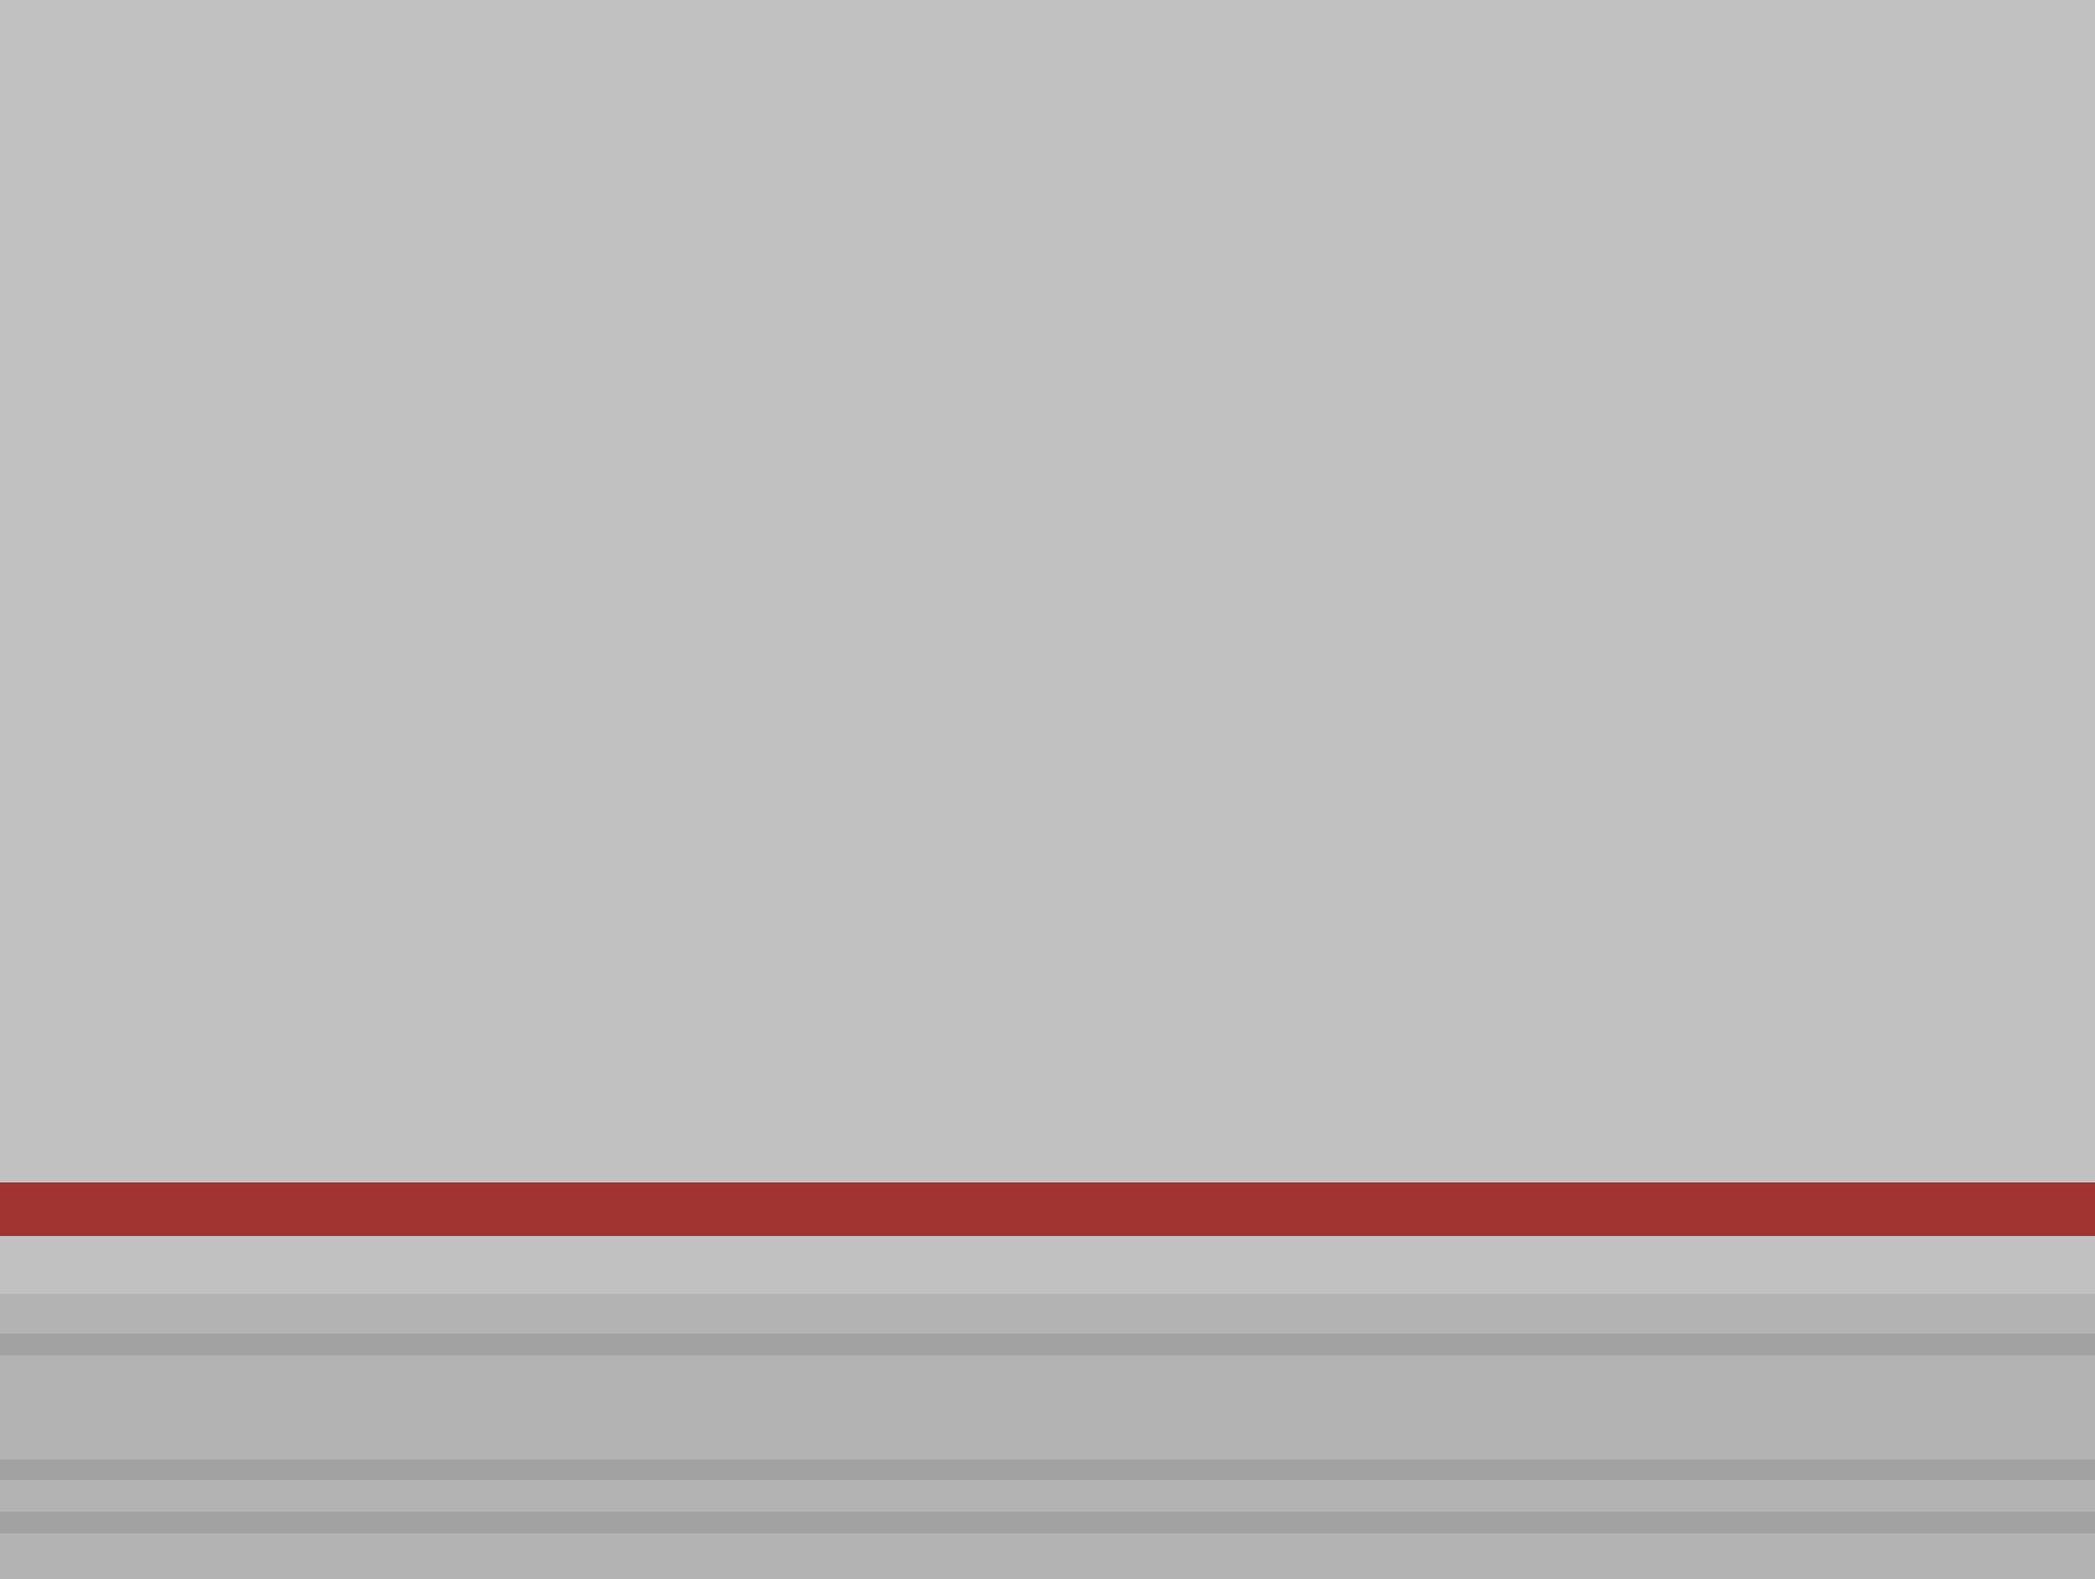
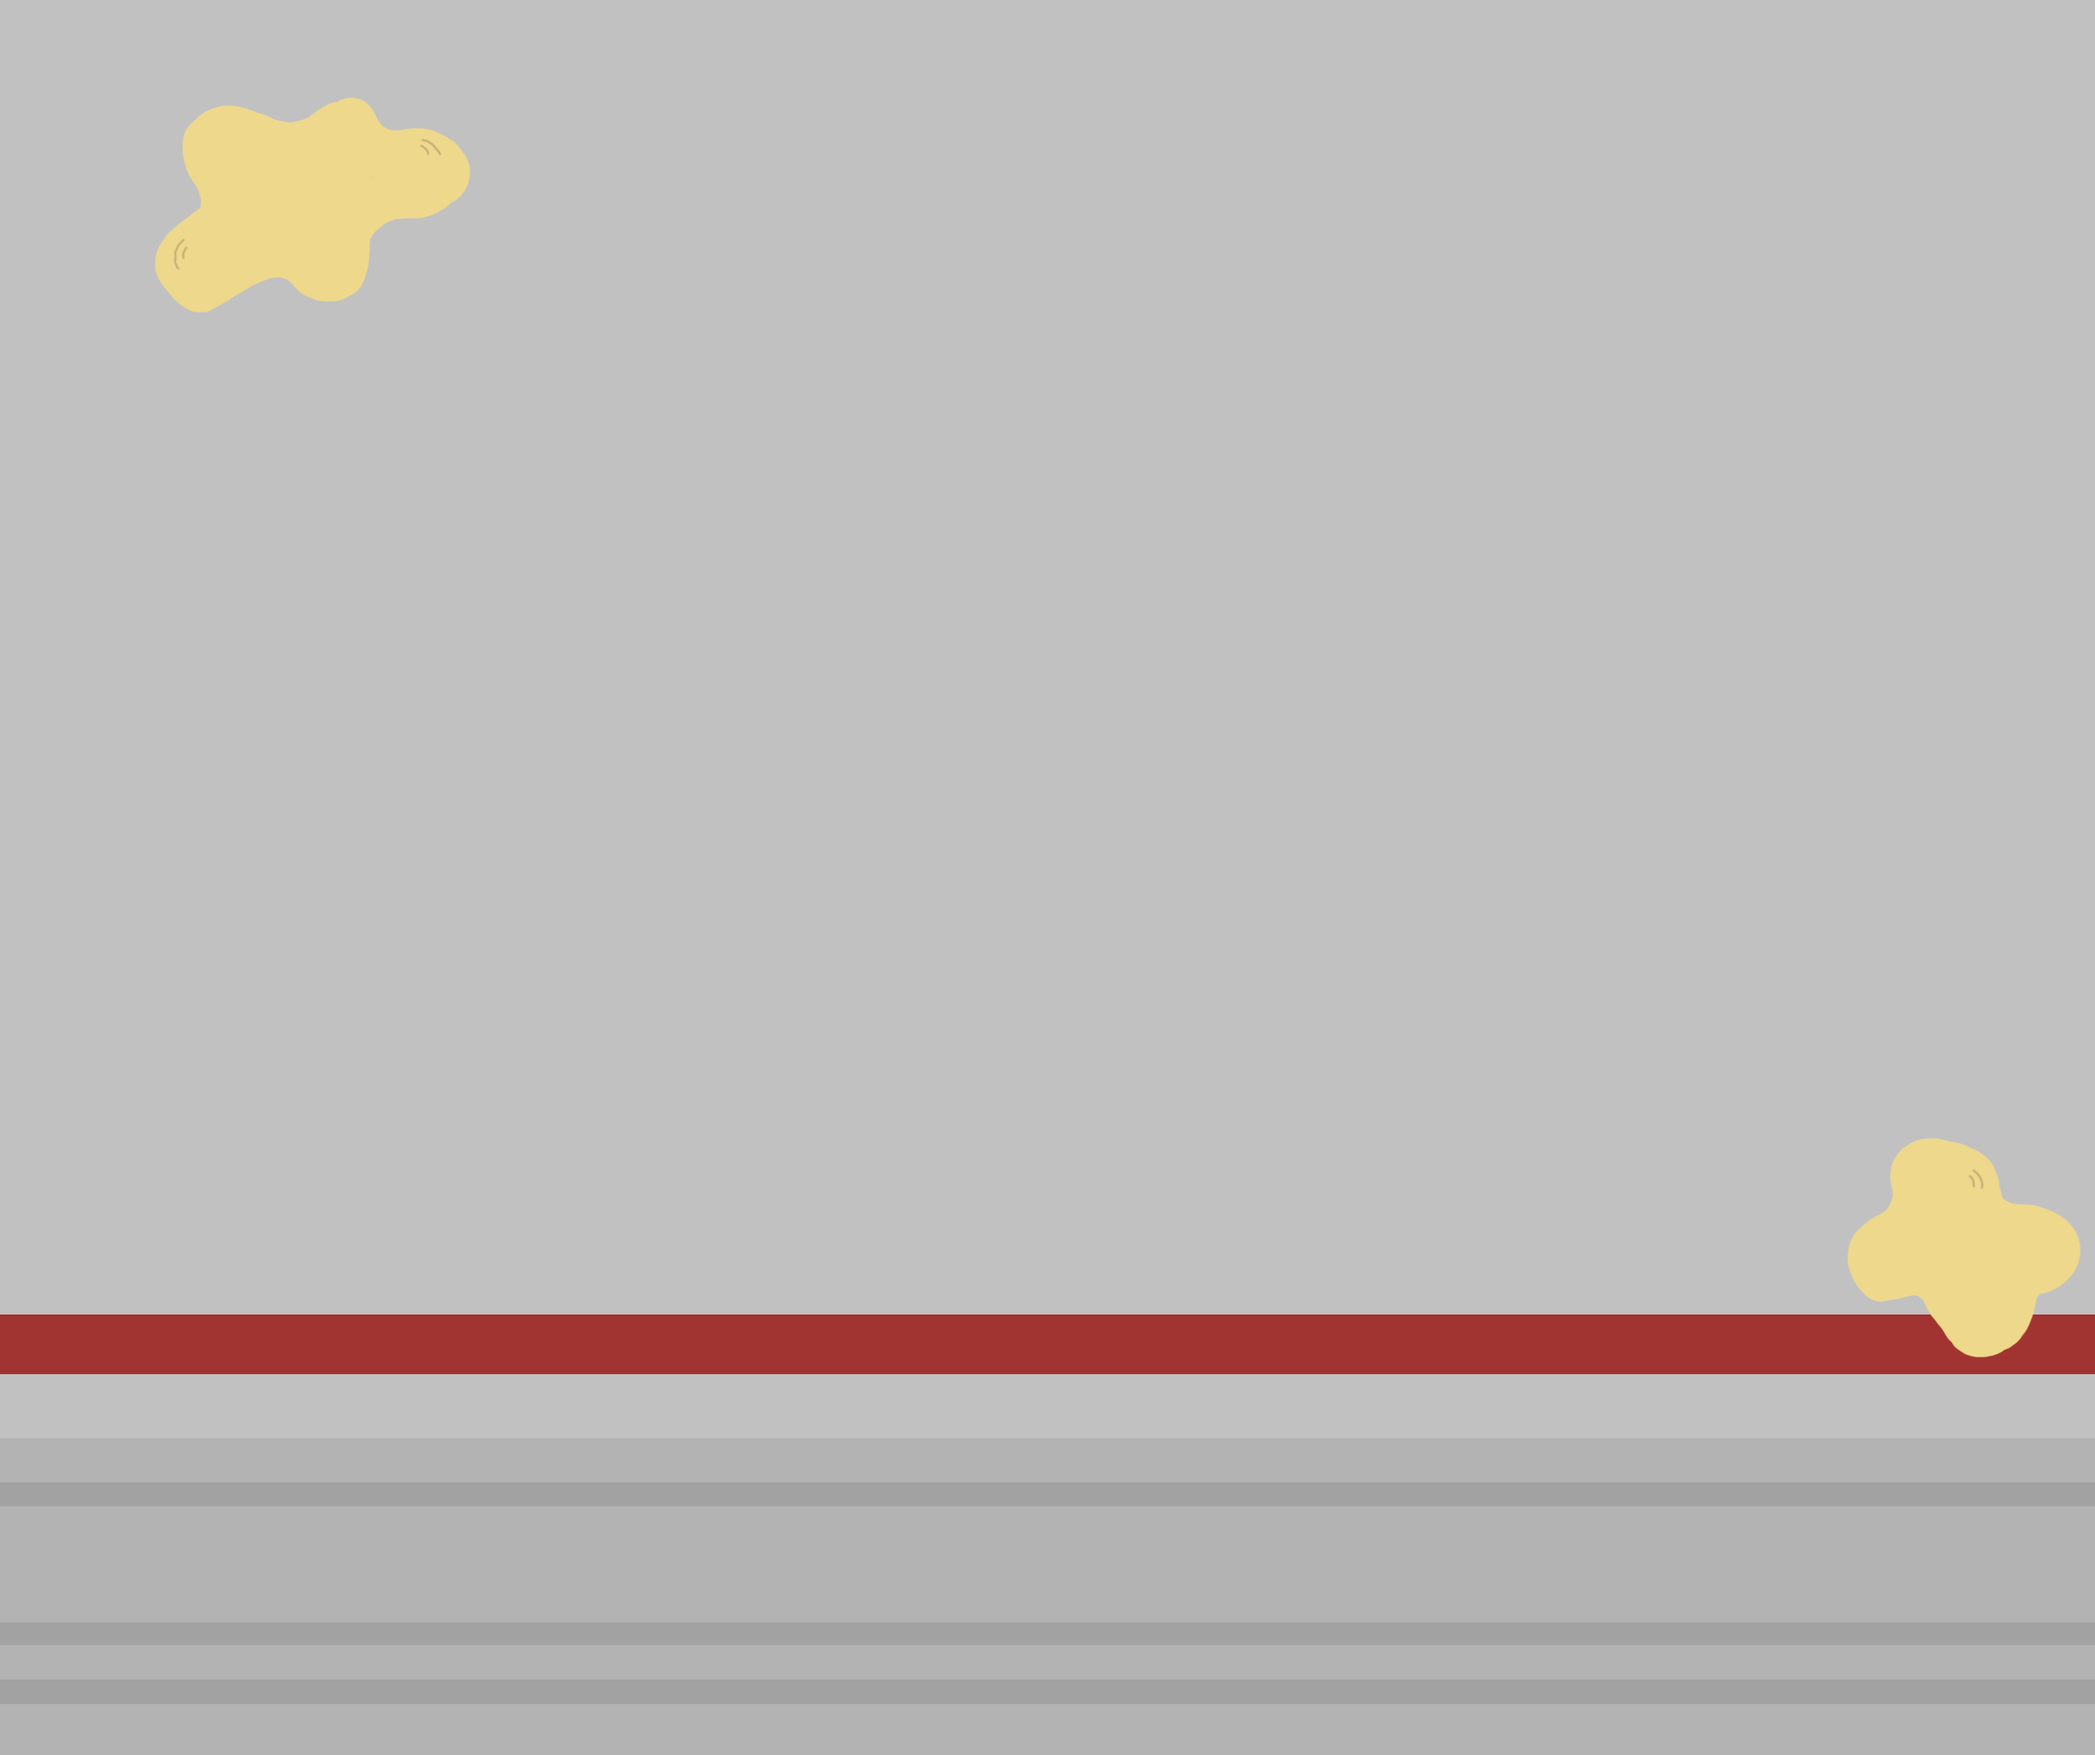
fondo y turistas

Changed region(s): [[0.062, 0.0311, 0.2479, 0.1867], [0.8677, 0.6533, 0.9916, 0.7778]]

diff --git a/tourist.js b/tourist.js
@@ -2,11 +2,11 @@ class Tourist {
   //Creamos un array donde vayan apareciendo los turistas
 
   static touristsArray = [];
-  static touristClasses =["touristOne", "touristTwo", "touristThree"];
+  static touristClasses =["touristOne", "touristTwo", "touristThree", "touristFour","touristFive"];
   constructor() {
     //Definimos en pantalla y su posición aleatoria
     this.element = document.createElement("div");
-    this.element.classList.add(Tourist.touristClasses[Math.floor(Math.random()*3)]);
+    this.element.classList.add(Tourist.touristClasses[Math.floor(Math.random()*5)]);
    
     myGame.element.appendChild(this.element);
     this.height = this.element.getBoundingClientRect().height;

diff --git a/style.css b/style.css
@@ -88,9 +88,10 @@ body {
   left: 0;
 }
 
-.touristOne, .touristTwo, .touristThree{
+.touristOne, .touristTwo, .touristThree, .touristFour, .touristFive{
   width: 80px;
   height: 120px;
+  border: red solid;
   position: absolute;
   left: 0;
   z-index: 2;
@@ -107,6 +108,12 @@ body {
 }
 .touristThree{
   background-image: url(./images/tourist-3.png);
+}
+.touristFour{
+  background-image: url(./images/tourist-4.png);
+}
+.touristFive{
+  background-image: url(./images/tourist-5.png);
 }
 
 

diff --git a/index.html b/index.html
@@ -8,6 +8,9 @@
     <style>
       @import url("https://fonts.googleapis.com/css2?family=Bagel+Fat+One&display=swap");
     </style>
+    <style>
+      @import url('https://fonts.googleapis.com/css2?family=Bagel+Fat+One&family=Lexend:wght@100..900&family=Playfair+Display:ital,wght@0,400..900;1,400..900&display=swap');
+      </style>
   </head>
   <body>
     <section id="game-area">
